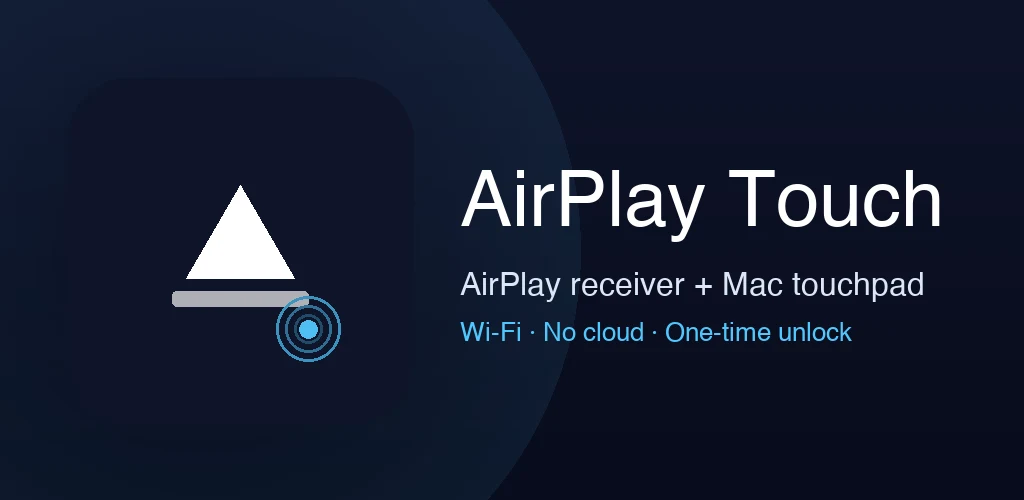
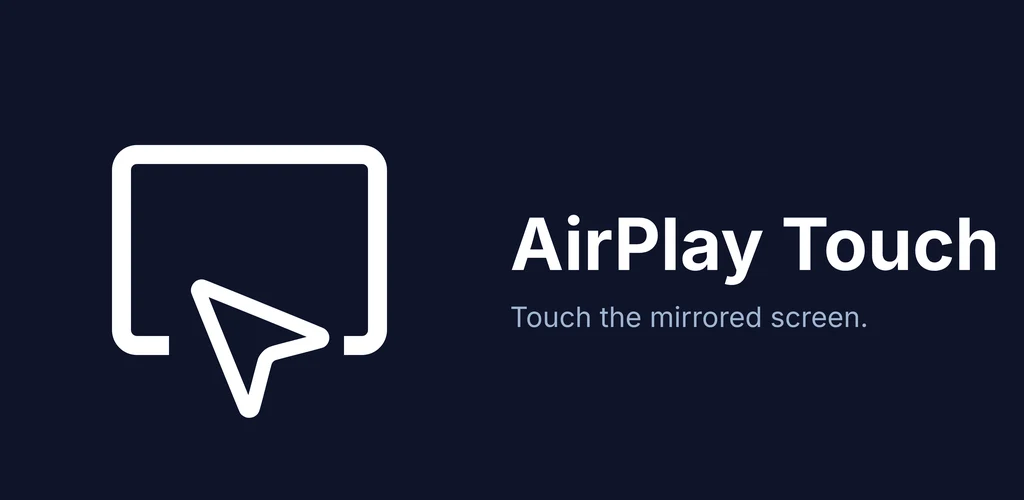
Refresh AirPlay Touch assets and copy for new touch-the-mirrored-screen positioning
- Replace icon, feature graphic, and screenshots with updated production assets
- Rename screenshots to semantic names (ready/receive/mirror/customize)
- Update tagline, features, and meta description to match new Play listing copy

Changed region(s): [[0.4375, 0.33, 1.0, 0.69], [0.0938, 0.27, 0.375, 0.84]]

diff --git a/airplay-touch/index.html b/airplay-touch/index.html
@@ -3,10 +3,10 @@
   <head>
     <meta charset="utf-8" />
     <meta name="viewport" content="width=device-width, initial-scale=1" />
-    <title>AirPlay Touch — turn Android into an AirPlay receiver and Mac touch panel</title>
-    <meta name="description" content="AirPlay Touch turns your Android phone or tablet into a wireless AirPlay receiver, and into a touch input panel for your Mac." />
+    <title>AirPlay Touch — an AirPlay receiver where the mirrored screen is touch-interactive</title>
+    <meta name="description" content="AirPlay Touch is an AirPlay receiver for Android where the mirrored screen is touch-interactive. Tap the mirrored Mac on your phone, and the Mac responds." />
     <meta property="og:title" content="AirPlay Touch" />
-    <meta property="og:description" content="Turn Android into an AirPlay receiver and a touch panel for your Mac." />
+    <meta property="og:description" content="An AirPlay receiver for Android where the mirrored screen is touch-interactive." />
     <meta property="og:type" content="website" />
     <meta property="og:url" content="https://apps.sskplay.com/airplay-touch/" />
     <meta property="og:image" content="https://apps.sskplay.com/airplay-touch/assets/feature.webp" />
@@ -225,7 +225,7 @@
         <img class="icon" src="assets/icon-512.png" alt="AirPlay Touch icon" width="96" height="96" />
         <div>
           <h1>AirPlay Touch</h1>
-          <p class="tagline">Turn your Android into an AirPlay receiver — and a touch panel for your Mac.</p>
+          <p class="tagline">An AirPlay receiver where the mirrored screen is touch-interactive.</p>
         </div>
       </section>
 
@@ -242,24 +242,24 @@
             <p>Receive mirroring from any iPhone, iPad, or Mac on the same Wi-Fi.</p>
           </div>
           <div class="feature">
+            <h3>Touch the mirrored screen</h3>
+            <p>Tap to click, drag to move the cursor — touches map directly to what you see on the mirrored Mac.</p>
+          </div>
+          <div class="feature">
+            <h3>Two-finger scroll</h3>
+            <p>Two-finger swipe sends scroll events to the source — just like a trackpad.</p>
+          </div>
+          <div class="feature">
+            <h3>Cursor snap-back</h3>
+            <p>Your Mac pointer returns to where it was the moment you release.</p>
+          </div>
+          <div class="feature">
             <h3>Full-screen mirroring</h3>
             <p>Adaptive scaling and orientation lock for the cleanest possible picture.</p>
           </div>
           <div class="feature">
-            <h3>PIN-protected</h3>
-            <p>Optional PIN code so only trusted devices can connect.</p>
-          </div>
-          <div class="feature">
-            <h3>Touch panel for Mac</h3>
-            <p>Use your Android as a wireless trackpad — tap, drag, multi-finger gestures.</p>
-          </div>
-          <div class="feature">
-            <h3>Gesture mapping</h3>
-            <p>Two-finger swipe → scroll. Three-finger swipe → drag. Cursor snap-back.</p>
-          </div>
-          <div class="feature">
-            <h3>LAN-only, no cloud</h3>
-            <p>Everything runs on your local network. No accounts, no telemetry.</p>
+            <h3>PIN-protected, LAN-only</h3>
+            <p>Optional PIN. Everything runs on your local network — no accounts, no cloud, no telemetry.</p>
           </div>
         </div>
       </section>
@@ -267,9 +267,10 @@
       <section>
         <h2>Screenshots</h2>
         <div class="shots">
-          <img src="assets/screenshot-1.webp" alt="AirPlay Touch screenshot 1" loading="lazy" />
-          <img src="assets/screenshot-2.webp" alt="AirPlay Touch screenshot 2" loading="lazy" />
-          <img src="assets/screenshot-3.webp" alt="AirPlay Touch screenshot 3" loading="lazy" />
+          <img src="assets/ready.webp" alt="Standby screen showing the device is ready to receive AirPlay" loading="lazy" />
+          <img src="assets/receive.webp" alt="Receiving an AirPlay connection" loading="lazy" />
+          <img src="assets/mirror.webp" alt="Mac mirrored full-screen on the Android device" loading="lazy" />
+          <img src="assets/customize.webp" alt="Customize settings sheet" loading="lazy" />
         </div>
       </section>
 
@@ -288,7 +289,7 @@
           </div>
           <div class="install-card" id="install-mac">
             <h3>macOS companion</h3>
-            <p style="color: var(--muted); margin: 0;">Required for the Touch panel feature. Install with Homebrew:</p>
+            <p style="color: var(--muted); margin: 0;">Required for touch interaction on the mirrored screen. Install with Homebrew:</p>
             <div class="copy-block">
 <pre id="brew-cmd"><code>brew tap jobtools/airplay-touch
 brew install --cask airplay-touch</code></pre>
@@ -308,7 +309,7 @@ brew install --cask airplay-touch</code></pre>
         <h2>Requirements</h2>
         <ul class="req">
           <li>Android 7.0 or later</li>
-          <li>For the Touch panel: a Mac running macOS 14 or later, on the same Wi-Fi</li>
+          <li>For touch interaction: a Mac running macOS 14 or later, on the same Wi-Fi</li>
           <li>DRM-protected content (Apple TV+, Netflix, etc.) cannot be mirrored — this is enforced by the source device</li>
         </ul>
       </section>

diff --git a/index.html b/index.html
@@ -123,7 +123,7 @@
           <img class="icon" src="airplay-touch/assets/icon-512.png" alt="AirPlay Touch icon" width="56" height="56" />
           <div class="meta">
             <h2>AirPlay Touch</h2>
-            <p>Android as an AirPlay receiver and a touch panel for your Mac.</p>
+            <p>An AirPlay receiver where the mirrored screen is touch-interactive.</p>
           </div>
         </a>
       </div>
